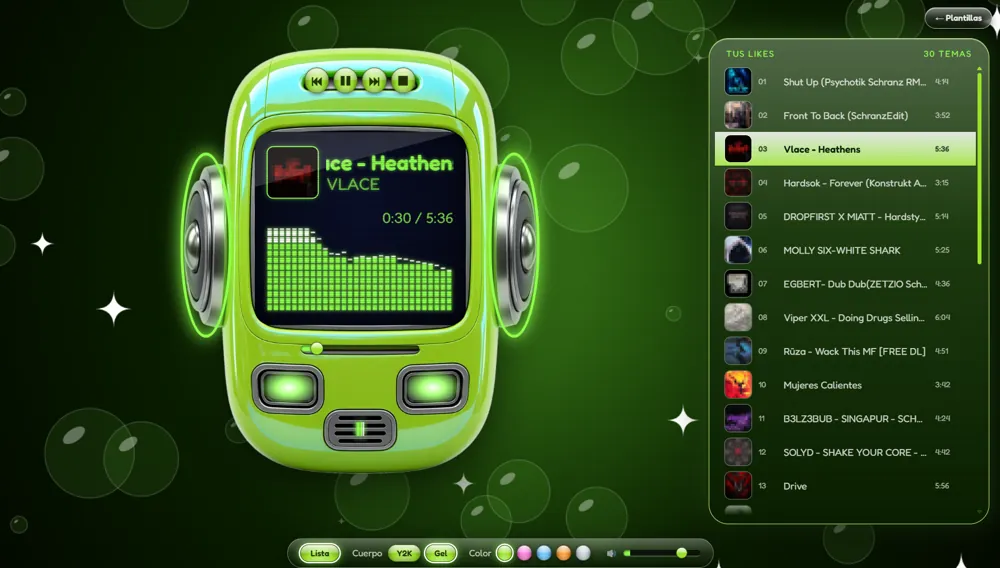
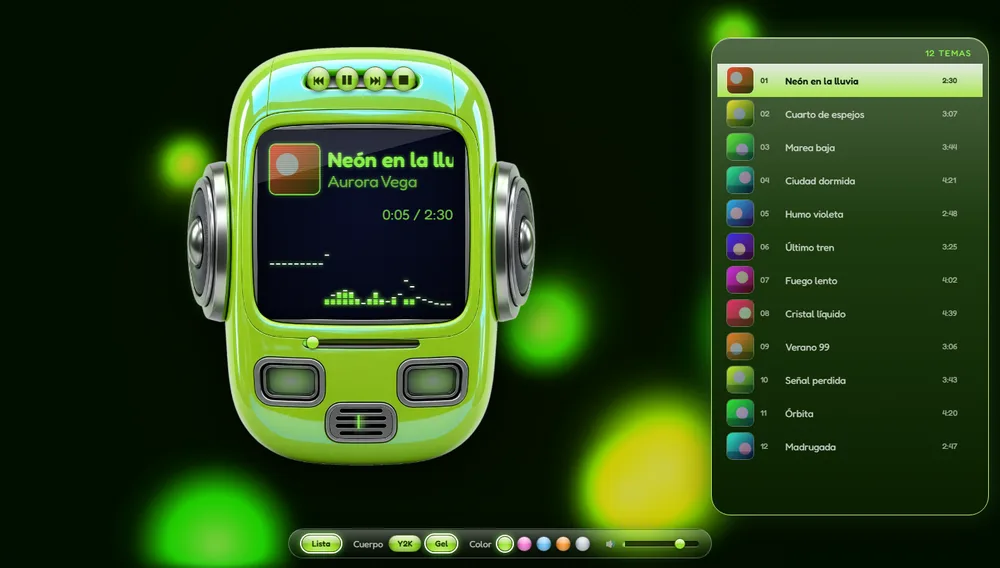
Headspace: fondo de visualizaciones liquidas de su color (lampara de lava nueva, agua, plasma, caleidoscopio) en vez de burbujas

diff --git a/web/headspace.html b/web/headspace.html
@@ -140,6 +140,7 @@
 
 <script src="propiedades.js"></script>
 <script src="nucleo.js"></script>
+<script src="visu2000.js"></script>
 <script>
 "use strict";
 const $ = (id) => document.getElementById(id);
@@ -224,42 +225,15 @@ usarColor(COLORES[leer("color-headspace")] ? leer("color-headspace") : "Lima");
 const elegido = leer("cuerpo-headspace");
 usarCuerpo(CUERPOS[elegido] ? elegido : "Y2K");
 
-// ---- Fondo: burbujas que suben con el bajo y destellos con los agudos ----
-const fondo = $("fondo"), fg = fondo.getContext("2d");
-const burbujas = Array.from({ length: Props.extra("headspace", "burbujas") }, () => ({ x: Math.random(), y: Math.random(), r: 8 + Math.random() * 46, v: 0.0004 + Math.random() * 0.0012 }));
-const destellos = Array.from({ length: 26 }, () => ({ x: Math.random(), y: Math.random(), f: Math.random() * 6, s: 6 + Math.random() * 14 }));
-function estrella(x, y, s) {
-  fg.beginPath(); fg.moveTo(x, y - s);
-  fg.quadraticCurveTo(x, y, x + s, y); fg.quadraticCurveTo(x, y, x, y + s);
-  fg.quadraticCurveTo(x, y, x - s, y); fg.quadraticCurveTo(x, y, x, y - s); fg.fill();
-}
-function dibujarFondo(bajo, agudo, t) {
-  if (fondo.width !== innerWidth || fondo.height !== innerHeight) { fondo.width = innerWidth; fondo.height = innerHeight; }
-  const w = fondo.width, h = fondo.height;
-  if (!w || !h) return;
-  const g = fg.createRadialGradient(w / 2, h * 0.45, 0, w / 2, h * 0.45, Math.max(w, h) * 0.7);
-  g.addColorStop(0, color.fondo); g.addColorStop(1, "#000");
-  fg.fillStyle = g; fg.fillRect(0, 0, w, h);
-  const halo = fg.createRadialGradient(w / 2, h * 0.45, 0, w / 2, h * 0.45, h * (0.35 + bajo * 0.25));
-  halo.addColorStop(0, color.led + "55"); halo.addColorStop(1, color.led + "00");
-  fg.globalAlpha = 0.25 + bajo * 0.75; fg.fillStyle = halo; fg.fillRect(0, 0, w, h); fg.globalAlpha = 1;
-  for (const b of burbujas) {
-    b.y -= b.v * (1 + bajo * 5);
-    if (b.y < -0.1) { b.y = 1.1; b.x = Math.random(); }
-    const x = b.x * w + Math.sin(t * 0.6 + b.r) * 12, y = b.y * h, r = b.r * (1 + bajo * 0.25);
-    fg.fillStyle = color.led + "14"; fg.strokeStyle = "rgba(255,255,255,.22)"; fg.lineWidth = 1.2;
-    fg.beginPath(); fg.arc(x, y, r, 0, 7); fg.fill(); fg.stroke();
-    fg.fillStyle = "rgba(255,255,255,.35)";
-    fg.beginPath(); fg.ellipse(x - r * 0.35, y - r * 0.4, r * 0.28, r * 0.14, -0.6, 0, 7); fg.fill();
-  }
-  fg.fillStyle = "#fff";
-  for (const d of destellos) {
-    const a = Math.max(0, Math.sin(t * 2.2 + d.f)) * (0.15 + agudo * 2.2);
-    if (a < 0.03) continue;
-    fg.globalAlpha = Math.min(1, a); estrella(d.x * w, d.y * h, d.s * (0.6 + a * 0.6));
-  }
-  fg.globalAlpha = 1;
-}
+// ---- Fondo: visualizaciones líquidas del color de la variante (lava, agua, remolino, caleidoscopio) ----
+const fondo = $("fondo"), visu = crearVisu2000(fondo);
+// al sonar el primer tema pasa al siguiente: así se abre con la lámpara de lava
+visu.grupo(["caleido", "lava", "agua", "remolino"]); visu.velocidad(.7);
+visu.intervalo([20, 45, 90, 0][Props.extra("headspace", "cambio")] ?? 45);
+fondo.style.filter = `brightness(${Props.extra("headspace", "brillo") / 100})`;
+fondo.onclick = () => visu.siguiente(); R.alCambiar(() => visu.siguiente());
+const tonoDe = (hex) => { const [r, g, b] = [1, 3, 5].map(i => parseInt(hex.slice(i, i + 2), 16) / 255), mx = Math.max(r, g, b), d = mx - Math.min(r, g, b);
+  return !d ? 210 : mx === r ? 60 * (((g - b) / d) % 6) : mx === g ? 60 * ((b - r) / d + 2) : 60 * ((r - g) / d + 4); };
 
 // ---- Pantalla: barras LED con picos ----
 const visor = $("visor"), vg = visor.getContext("2d"), picos = new Array(30).fill(0);
@@ -291,7 +265,7 @@ const segBoca = $("boca").children;
 R.cadaCuadro((t) => {
   const d = R.espectro();
   const bajo = R.energia(d, 1, 8), medio = R.energia(d, 8, 60), agudo = R.energia(d, 60, 200);
-  dibujarFondo(bajo, agudo, t);
+  visu.dibujar(t, d, R.ondaAudio(), bajo, medio, agudo, tonoDe(color.led));
   dibujarPantalla(d);
   raiz.setProperty("--p", (R.progreso() * 100).toFixed(2) + "%");
   ojos.forEach(o => { o.style.opacity = (0.12 + medio * 1.3).toFixed(2); });

diff --git a/web/visu2000.js b/web/visu2000.js
@@ -5,7 +5,7 @@
 // crearVisu2000(canvas) → { grupo([efectos]), intervalo(seg, 0 = solo al cambiar de canción), velocidad(0.1-1.5), siguiente(),
 //                           dibujar(t, espectro, onda, bajo, medio, agudo, tono) }
 "use strict";
-const VISU2000 = ["estrellas", "anillos", "barras", "bateria", "llamas", "remolino", "rayos", "onda", "agua", "caleido"];
+const VISU2000 = ["estrellas", "anillos", "barras", "bateria", "llamas", "remolino", "rayos", "onda", "agua", "caleido", "lava"];
 function crearVisu2000(canvas) {
   const W = 480, H = 270, CX = W / 2, CY = H / 2, FUNDIDO = 2;
   const lienzo = () => { const c = document.createElement("canvas"); c.width = W; c.height = H; return c; };
@@ -144,6 +144,18 @@ function crearVisu2000(canvas) {
           g.strokeStyle = col(x.tono + rep * 50, 55, .6); g.lineWidth = 1.6; g.beginPath();
           for (let i = 0; i < x.onda.length; i += 4) { const px = (i / x.onda.length - .5) * W * 1.1, py = (x.onda[i] - 128) / 128 * H * .4 * (1 + x.bajo); i ? g.lineTo(px, py) : g.moveTo(px, py); }
           g.stroke(); g.restore();
+        }
+      });
+    },
+    // Headspace (Y2K): lámpara de lava, gotas de gel que suben, se juntan y laten con el bajo
+    lava(t, x) {
+      eco(1, 0, .8, "blur(2px)");
+      sumar(() => {
+        for (let k = 0; k < 7; k++) {
+          const px = W * (.18 + .64 * (.5 + .5 * Math.sin(t * (.13 + k * .021) + k * 2.1))), py = H * (.5 + .46 * Math.sin(t * (.19 + k * .027) + k * 1.3));
+          const s = 26 + 16 * Math.sin(t * .5 + k) + x.bajo * 34 + golpe * 14, m = g.createRadialGradient(px, py, 0, px, py, s);
+          m.addColorStop(0, col(x.tono + k * 7 - 20, 58, .42)); m.addColorStop(.55, col(x.tono + k * 7 - 20, 45, .18)); m.addColorStop(1, col(x.tono, 30, 0));
+          g.fillStyle = m; g.fillRect(px - s, py - s, s * 2, s * 2);
         }
       });
     },

diff --git a/web/plantillas-propias.js b/web/plantillas-propias.js
@@ -48,7 +48,7 @@ const Propias = (() => {
         ["titulo", [4, 62, 29, 9], { tam: 115 }], ["artista", [4, 73, 29, 5]], ["lista", [37, 4, 60, 80]], ["botones", [28, 88.5, 22, 8.5]], ["barra", [53, 91.6, 26, 2.4]],
         ["tiempo", [80, 89.5, 8, 6]], ["volumen", [89, 90, 8, 5]]]) },
     headspace: { nombre: "Headspace", reglas: { requeridas: ["cabeza"], nota: "La cabeza es el reproductor: se puede mover, agrandar y cambiar de cuerpo y color. Trae título, carátula, botones y barra adentro, así que no se agregan sueltos." },
-      fondo: { tipo: "burbujas", color: "#123a00", brillo: 100 }, estilo: { panel: "gel", acento: "#9be22a", fuente: "Fredoka" },
+      fondo: { tipo: "visu2000", color: "#000000", brillo: 80, velocidad: 70 }, estilo: { panel: "gel", acento: "#9be22a", fuente: "Fredoka" },
       piezas: () => armar([["cabeza", [24, 2, 42, 95]], ["lista", [70, 5, 27, 82]], ["volumen", [34, 95, 24, 3.5]]]) },
     dosmil: { nombre: "2000s", reglas: { requeridas: ["equipo"], nota: "El equipo de metal es el reproductor: se puede mover, agrandar y cambiar de skin. Trae pantalla LCD, botones, perilla y barra, así que no se agregan sueltos." },
       fondo: { tipo: "visu2000", color: "#000000", brillo: 100 }, estilo: { panel: "metal", acento: "#3fa9ff", fuente: "Michroma" },

diff --git a/web/catalogo.js b/web/catalogo.js
@@ -9,7 +9,7 @@ const PLANTILLAS = [
     guardar: (x) => ({ "tema-liquido": x.nombre }),
     grupos: [{ titulo: "Color", items: [v("Rojo", "#ff2d3d", "liquido-rojo"), v("Hielo", "#3db8ff", "liquido-hielo"), v("Violeta", "#a855ff", "liquido-violeta"), v("Ácido", "#b6ff2d", "liquido-acido"), v("Oro", "#ffb02d", "liquido-oro")] }] },
   { id: "headspace", nombre: "Headspace", pagina: "headspace.html", predeterminada: "Y2K · Lima",
-    desc: "Cabeza de plástico Y2K con el reproductor adentro, burbujas y una lista que sale del costado.",
+    desc: "Cabeza de plástico Y2K con el reproductor adentro, sobre visualizaciones líquidas de su color (lámpara de lava, agua, plasma) y una lista que sale del costado.",
     guardar: (x) => ({ "cuerpo-headspace": x.cuerpo, "color-headspace": x.color2 }),
     grupos: ["Y2K", "Gel"].map(c => ({ titulo: `Cuerpo ${c}`, items: [["Lima", "#9be22a"], ["Chicle", "#ff7ad9"], ["Cielo", "#6cc8ff"], ["Mandarina", "#ff9a2a"], ["Cromo", "#c9d3dc"]]
       .map(([n, col]) => v(`${c} · ${n}`, col, `headspace-${c.toLowerCase()}-${n.toLowerCase()}`, { cuerpo: c, color2: n })) })) },

diff --git a/web/propiedades.js b/web/propiedades.js
@@ -12,7 +12,8 @@ const Props = (() => {
   // Controles numéricos propios de cada plantilla
   const EXTRAS = {
     liquido: [{ id: "deformacion", nombre: "Fuerza de la deformación del vidrio", min: 0, max: 140, def: 70, unidad: "" }],
-    headspace: [{ id: "burbujas", nombre: "Cantidad de burbujas", min: 0, max: 80, def: 34, unidad: "" }],
+    headspace: [{ id: "brillo", nombre: "Brillo del fondo", min: 20, max: 130, def: 80, unidad: " %" },
+      { id: "cambio", nombre: "Cambiar de visualización", min: 0, max: 3, def: 1, etiquetas: ["cada 20 s", "cada 45 s", "cada 90 s", "solo al cambiar de canción"] }],
     dosmil: [{ id: "tunel", nombre: "Brillo de la visualización de fondo", min: 20, max: 130, def: 70, unidad: " %" },
       { id: "cambio", nombre: "Cambiar de visualización", min: 0, max: 3, def: 1, etiquetas: ["cada 20 s", "cada 45 s", "cada 90 s", "solo al cambiar de canción"] }],
     ambiente: [{ id: "desenfoque", nombre: "Desenfoque del fondo", min: 10, max: 140, def: 70, unidad: " px" }],
